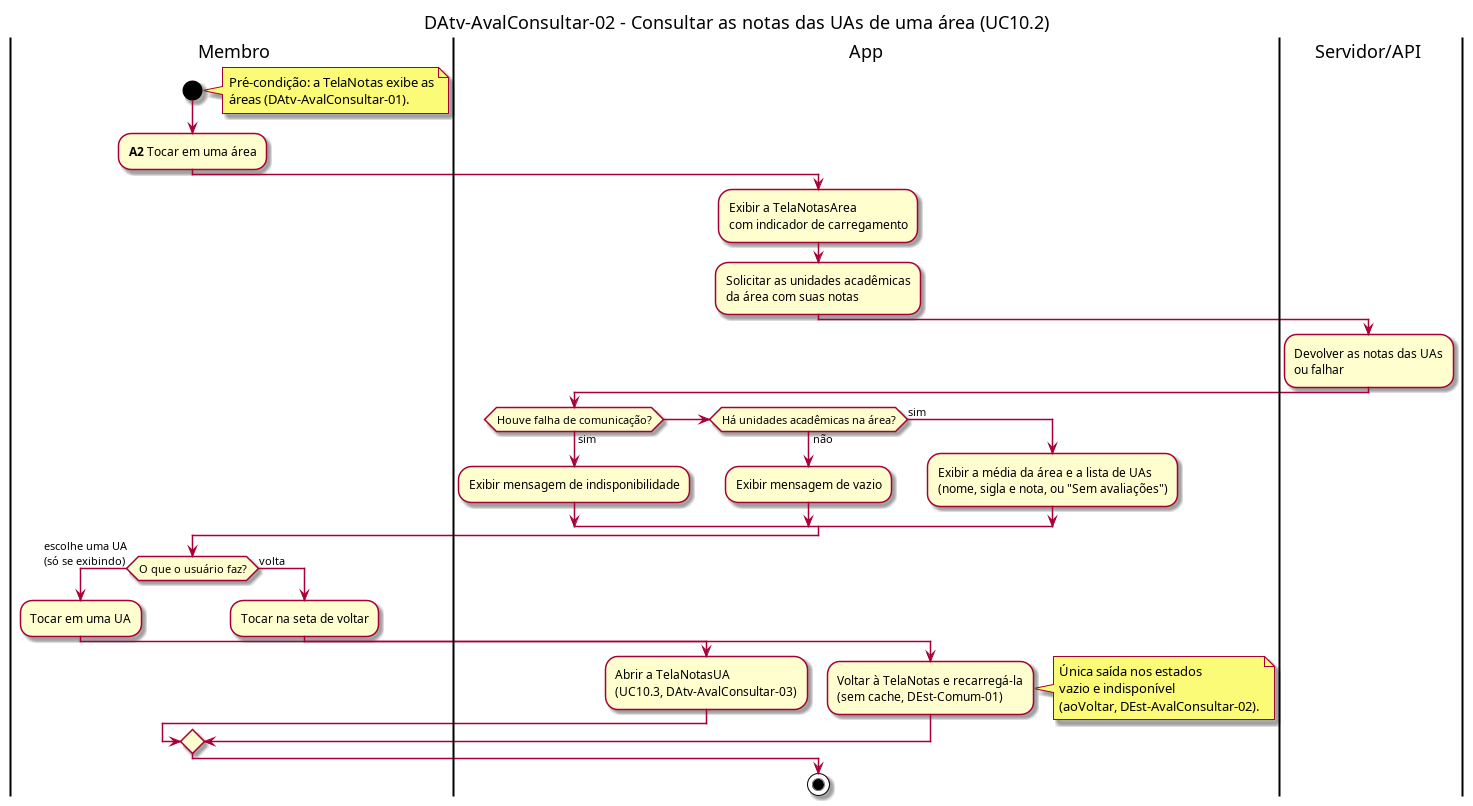
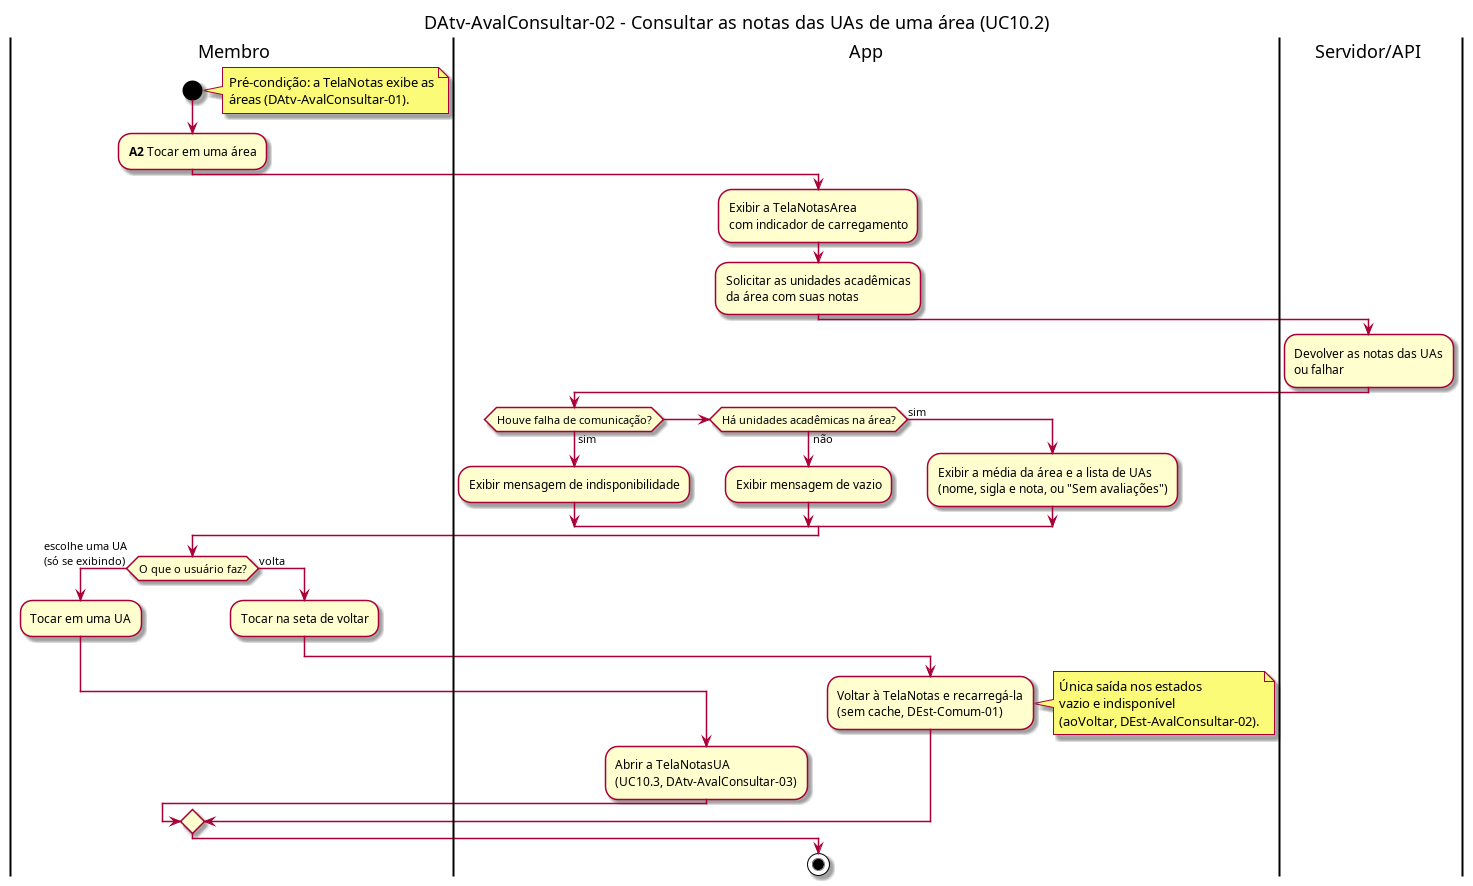
D-AVC: correção de setas sobrepostas nos DAtv de Avaliação
Ajusta DAtv-AvalConsultar-01 e 02 e DAtv-AvalRegistrar-02 e 03 para que
as setas não se sobreponham; move o abandono do questionário para a saída
do laço (AvalRegistrar-02) e corrige a raia de "Marcar as questões
pendentes" (AvalRegistrar-03). Registro de IA D-IA-17.

Changed region(s): [[0.0, 0.031, 0.9993, 0.9926], [0.2811, 0.0, 0.7183, 0.0931], [0.9056, 0.031, 0.9681, 0.0931]]

diff --git a/IA/registro-D.md b/IA/registro-D.md
@@ -415,3 +415,32 @@ ANTHROPIC. **Claude Code**. Assistente de IA. Disponível em: https://claude.com
 ### Referência (ABNT)
 
 ANTHROPIC. **Claude Code**. Assistente de IA. Disponível em: https://claude.com/claude-code. Acesso em: 1 nov. 2026. Questão: Apêndice <X>, Seção <X.1>.
+
+## D-IA-17 – Correção de setas sobrepostas nos DAtv
+
+- **IA:** Anthropic. Claude Code (Claude Opus 5.5). Assistente de IA.
+- **URL:** https://claude.com/claude-code
+- **Data de acesso:** 2 de novembro de 2026.
+- **Contexto fornecido:** relato da Pessoa B (prints do diagrama e da conversa da equipe) sobre linhas sobrepostas em diagramas de atividades; todos os DAtv do repositório.
+- **Itens produzidos:** revisão visual dos 23 DAtv; correção da sobreposição em `DAtv-AvalConsultar-01`, `DAtv-AvalConsultar-02`, `DAtv-AvalRegistrar-02` (também com o abandono do questionário movido para a saída do laço, eliminando a seta solta) e `DAtv-AvalRegistrar-03` (também com "Marcar as questões pendentes" movida para a raia App); PNGs renderizados de novo.
+- **Uso da resposta:** correções conferidas e aprovadas pela Pessoa D.
+
+### Prompt 1
+
+> o maicon relatou esses problemas visuais em alguns diagramas. revise todas as imagens de diagramas e detecte se esse problema ainda está presente
+
+### Prompt 2
+
+> já entrei em acordo com o time e eu vou corrigir esse ponto. corrija todos que tiverem com essa sobreposição e renderize novamente as imagens. não gere o commit ainda apenas altere
+
+### Prompt 3
+
+> sim corrija visualmente o DAtv-AvalRegistrar-02. além da linha solta começando do nada, tem duas setas que se conectam a uma linha horizontal que não leva a lugar nenhum. corrija isso ainda está errado.
+
+### Prompt 4
+
+> tudo bem da maneira que ficou está correto. pode registrar o uso de ia.
+
+### Referência (ABNT)
+
+ANTHROPIC. **Claude Code**. Assistente de IA. Disponível em: https://claude.com/claude-code. Acesso em: 2 nov. 2026. Questão: Apêndice <X>, Seção <X.1>.
